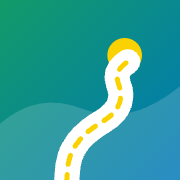
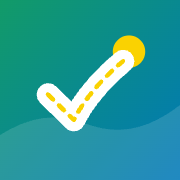
feat: replacing gira perimi with tsindaneza

Changed region(s): [[0.0, 0.1944, 1.0, 1.0]]

diff --git a/src/components/brand/logo.tsx b/src/components/brand/logo.tsx
@@ -2,10 +2,14 @@ import { useId } from "react";
 
 import { cn } from "@/lib/cn";
 
-/** Brand mark: a winding road over the hills, with the sun of the Rwandan flag. */
+const ROAD = "M10 25.5 18.6 34c3.2-6.4 8.8-13.3 16.4-19.6";
+
+/** Brand mark: a road that bends into a check mark ("tsinda", pass) and runs up to the sun of the Rwandan flag. */
 export function LogoMark({ className }: { className?: string }) {
   // Unique per instance: a duplicated id inside a hidden copy would blank the visible one's gradient.
-  const gradientId = `gp-logo-${useId()}`;
+  const id = useId();
+  const gradientId = `tn-logo-${id}`;
+  const clipId = `tn-clip-${id}`;
   return (
     <svg viewBox="0 0 48 48" className={cn("size-10", className)} aria-hidden="true">
       <defs>
@@ -13,24 +17,24 @@ export function LogoMark({ className }: { className?: string }) {
           <stop offset="0" stopColor="#129b68" />
           <stop offset="1" stopColor="#0077b8" />
         </linearGradient>
+        <clipPath id={clipId}>
+          <rect width="48" height="48" rx="13" />
+        </clipPath>
       </defs>
-      <rect width="48" height="48" rx="14" fill={`url(#${gradientId})`} />
-      <circle cx="35" cy="13" r="5.5" fill="#fad201" />
-      <path d="M0 33c7-6 14-7 22-4s16 2 26-6v25H0z" fill="#ffffff" opacity="0.16" />
+      <g clipPath={`url(#${clipId})`}>
+        <rect width="48" height="48" fill={`url(#${gradientId})`} />
+        <path d="M0 36c8-5 15-6 23-3s16 2 25-5v20H0z" fill="#ffffff" opacity="0.13" />
+      </g>
+      <circle cx="37" cy="11.2" r="5.4" fill="#fad201" />
+      <path d={ROAD} fill="none" stroke="#ffffff" strokeWidth="7.6" strokeLinecap="round" strokeLinejoin="round" />
       <path
-        d="M17 48c1-7 6-11 11-14s7-7 5-12c-1-3 0-5 3-7"
-        fill="none"
-        stroke="#ffffff"
-        strokeWidth="8"
-        strokeLinecap="round"
-      />
-      <path
-        d="M17 48c1-7 6-11 11-14s7-7 5-12c-1-3 0-5 3-7"
+        d={ROAD}
         fill="none"
         stroke="#fad201"
-        strokeWidth="1.6"
+        strokeWidth="1.5"
         strokeLinecap="round"
-        strokeDasharray="3 3.2"
+        strokeLinejoin="round"
+        strokeDasharray="2.4 2.7"
       />
     </svg>
   );
@@ -50,7 +54,7 @@ export function Logo({
       <LogoMark className="size-9 shrink-0 drop-shadow-sm" />
       {!compact && (
         <span className={cn("font-display text-xl font-extrabold leading-none tracking-tight", onDark ? "text-white" : "text-ink")}>
-          Gira<span className={onDark ? "text-brand-300" : "text-brand-600 dark:text-brand-400"}>Perimi</span>
+          Tsinda<span className={onDark ? "text-brand-300" : "text-brand-600 dark:text-brand-400"}>Neza</span>
         </span>
       )}
     </span>

diff --git a/src/app/(site)/page.tsx b/src/app/(site)/page.tsx
@@ -126,12 +126,12 @@ const MARQUEE_SIGNS = [
 
 const FAQ = [
   {
-    q: "Gira Perimi ni iki?",
+    q: "Tsinda Neza ni iki?",
     a: "Ni urubuga rugufasha kwiga amategeko y’umuhanda mu Kinyarwanda no kwitegura ikizamini cy’uruhushya rw’agateganyo rwo gutwara ibinyabiziga, ukoresheje amasomo, ibyapa, imyitozo n’ibizamini by’igerageza.",
   },
   {
     q: "Ese ibibazo ni ibyo mu kizamini nyakuri?",
-    a: "Ibibazo biri kuri Gira Perimi byavanywe mu gitabo cy’ibibazo by’ikizamini uko byakabaye, hamwe n’ibisubizo byabyo n’amashusho yabyo. Amasomo ashingiye ku Iteka rya Perezida rigenga uburyo bwo kugenda mu muhanda no ku Itegeko n° 014/2026.",
+    a: "Ibibazo biri kuri Tsinda Neza byavanywe mu gitabo cy’ibibazo by’ikizamini uko byakabaye, hamwe n’ibisubizo byabyo n’amashusho yabyo. Amasomo ashingiye ku Iteka rya Perezida rigenga uburyo bwo kugenda mu muhanda no ku Itegeko n° 014/2026.",
   },
   {
     q: "Ikizamini cy’igerageza giteye gite?",
@@ -227,7 +227,7 @@ export default function HomePage() {
             align="center"
             eyebrow="Uko bikora"
             title="Intambwe enye zikugeza kuri perimi"
-            description="Kuva ku isomo rya mbere kugeza ku munsi w’ikizamini, Gira Perimi iragukurikirana intambwe ku yindi."
+            description="Kuva ku isomo rya mbere kugeza ku munsi w’ikizamini, Tsinda Neza iragukurikirana intambwe ku yindi."
           />
         </Reveal>
         <ol className="relative mt-16 grid gap-6 md:grid-cols-2 lg:grid-cols-4">
@@ -282,7 +282,7 @@ export default function HomePage() {
         <Reveal>
           <SectionHeading
             align="center"
-            eyebrow="Impamvu Gira Perimi"
+            eyebrow="Impamvu Tsinda Neza"
             title="Byose ukeneye kugira ngo utsinde, ahantu hamwe"
           />
         </Reveal>
@@ -315,7 +315,7 @@ export default function HomePage() {
                 <p className="text-sm font-bold uppercase tracking-[0.14em] text-sun-300">Ikizamini cy’uruhushya rw’agateganyo</p>
                 <h2 className="mt-3 text-3xl font-extrabold leading-tight sm:text-5xl">Menya uko ikizamini giteye mbere y’umunsi nyirizina</h2>
                 <p className="mt-5 max-w-lg text-lg leading-relaxed text-white/75">
-                  Ibizamini by’igerageza bya Gira Perimi bikurikiza imiterere imwe n’iy’ikizamini gikoreshwa na Polisi
+                  Ibizamini by’igerageza bya Tsinda Neza bikurikiza imiterere imwe n’iy’ikizamini gikoreshwa na Polisi
                   y’u Rwanda, kugira ngo ku munsi w’ikizamini nta kintu kigutungura.
                 </p>
                 <ButtonLink href="/ikizamini" variant="sun" size="lg" className="mt-8">

diff --git a/src/components/layout/site-footer.tsx b/src/components/layout/site-footer.tsx
@@ -25,7 +25,7 @@ const COLUMNS = [
   {
     title: "Amakuru",
     links: [
-      { href: "/#uko-bikora", label: "Uko Gira Perimi ikora" },
+      { href: "/#uko-bikora", label: "Uko Tsinda Neza ikora" },
       { href: "/#ibibazo-bikunze-kubazwa", label: "Ibibazo bikunze kubazwa" },
       { href: "/amasomo/itegeko-rishya-2026", label: "Itegeko rishya rya 2026" },
     ],
@@ -63,9 +63,9 @@ export function SiteFooter() {
       </div>
       <div className="border-t border-line">
         <div className="container-page flex flex-col gap-3 py-6 text-sm text-muted md:flex-row md:items-center md:justify-between">
-          <p>© 2026 Gira Perimi. Uburenganzira bwose burasigasiwe.</p>
+          <p>© 2026 Tsinda Neza. Uburenganzira bwose burasigasiwe.</p>
           <p className="max-w-2xl md:text-right">
-            Gira Perimi si urubuga rwa Polisi y’u Rwanda. Ibibazo n’amasomo bishingiye ku gitabo cy’ibibazo
+            Tsinda Neza si urubuga rwa Polisi y’u Rwanda. Ibibazo n’amasomo bishingiye ku gitabo cy’ibibazo
             by’ikizamini, Iteka rya Perezida n° 85/01 n’Itegeko n° 014/2026 rigenga ikoreshwa ry’umuhanda.
           </p>
         </div>

diff --git a/src/app/layout.tsx b/src/app/layout.tsx
@@ -20,12 +20,12 @@ const DESCRIPTION =
 export const metadata: Metadata = {
   metadataBase: new URL(process.env.SITE_URL ?? "http://localhost:3000"),
   title: {
-    default: "Gira Perimi · Iga amategeko y’umuhanda, utsinde ikizamini",
-    template: "%s · Gira Perimi",
+    default: "Tsinda Neza · Iga amategeko y’umuhanda, utsinde ikizamini",
+    template: "%s · Tsinda Neza",
   },
   description: DESCRIPTION,
-  applicationName: "Gira Perimi",
-  appleWebApp: { capable: true, title: "Gira Perimi", statusBarStyle: "default" },
+  applicationName: "Tsinda Neza",
+  appleWebApp: { capable: true, title: "Tsinda Neza", statusBarStyle: "default" },
   keywords: [
     "amategeko y’umuhanda",
     "perimi",
@@ -38,8 +38,8 @@ export const metadata: Metadata = {
   openGraph: {
     type: "website",
     locale: "rw_RW",
-    siteName: "Gira Perimi",
-    title: "Gira Perimi · Iga amategeko y’umuhanda, utsinde ikizamini",
+    siteName: "Tsinda Neza",
+    title: "Tsinda Neza · Iga amategeko y’umuhanda, utsinde ikizamini",
     description: DESCRIPTION,
   },
 };

diff --git a/src/components/pwa/install-app-button.tsx b/src/components/pwa/install-app-button.tsx
@@ -15,7 +15,7 @@ export function InstallAppButton({ className }: { className?: string }) {
   if (state === "installed") {
     return (
       <span className="inline-flex items-center gap-1.5 text-sm font-semibold text-brand-700 dark:text-brand-300">
-        <BadgeCheck className="size-4" aria-hidden /> Gira Perimi iri kuri iki gikoresho
+        <BadgeCheck className="size-4" aria-hidden /> Tsinda Neza iri kuri iki gikoresho
       </span>
     );
   }
@@ -33,8 +33,8 @@ export function InstallAppButton({ className }: { className?: string }) {
       <Dialog
         open={iosHelp}
         onClose={() => setIosHelp(false)}
-        title="Shyira Gira Perimi kuri iPhone"
-        description="Mu ntambwe ebyiri, Gira Perimi iboneka kuri telefone yawe nk’izindi porogaramu."
+        title="Shyira Tsinda Neza kuri iPhone"
+        description="Mu ntambwe ebyiri, Tsinda Neza iboneka kuri telefone yawe nk’izindi porogaramu."
         size="sm"
       >
         <ol className="space-y-4">

diff --git a/src/components/quiz/demo-quiz.tsx b/src/components/quiz/demo-quiz.tsx
@@ -104,7 +104,7 @@ export function DemoQuiz() {
         <p className="mx-auto mt-4 max-w-md text-lg text-muted">
           {great
             ? "Ni byiza cyane! Iyandikishe ubike aho ugeze, maze ukore ikizamini cyuzuye cy’ibibazo 20."
-            : "Ntucike intege: ibi ni byo Gira Perimi igufasha kwiga. Iyandikishe utangire amasomo n’imyitozo."}
+            : "Ntucike intege: ibi ni byo Tsinda Neza igufasha kwiga. Iyandikishe utangire amasomo n’imyitozo."}
         </p>
         <div className="mt-8 flex flex-col justify-center gap-3 sm:flex-row">
           <ButtonLink href="/injira" size="lg">

diff --git a/src/app/admin/injira/page.tsx b/src/app/admin/injira/page.tsx
@@ -36,7 +36,7 @@ export default function AdminLoginPage() {
             <ShieldCheck className="size-4 text-brand-500" /> Ubuyobozi
           </p>
           <h1 className="mt-4 text-3xl font-extrabold">Injira nk’umuyobozi</h1>
-          <p className="mt-2 text-muted">Iki gice ni icy’abayobozi ba Gira Perimi gusa.</p>
+          <p className="mt-2 text-muted">Iki gice ni icy’abayobozi ba Tsinda Neza gusa.</p>
           <div className="mt-7">
             <Suspense fallback={<Skeleton className="h-60 rounded-2xl" />}>
               <LoginPanel />

diff --git a/src/components/layout/site-header.tsx b/src/components/layout/site-header.tsx
@@ -26,7 +26,7 @@ export function SiteHeader() {
   return (
     <header className="sticky top-0 z-50 border-b border-line/80 bg-surface/80 backdrop-blur-xl supports-[backdrop-filter]:bg-surface/70">
       <div className="container-page flex h-16 items-center justify-between gap-4">
-        <Link href="/" aria-label="Gira Perimi, ahabanza" className="rounded-xl">
+        <Link href="/" aria-label="Tsinda Neza, ahabanza" className="rounded-xl">
           <Logo />
         </Link>
         <Suspense fallback={<NavLinksView pathname="" />}>

diff --git a/src/app/manifest.ts b/src/app/manifest.ts
@@ -3,8 +3,8 @@ import type { MetadataRoute } from "next";
 export default function manifest(): MetadataRoute.Manifest {
   return {
     id: "/",
-    name: "Gira Perimi · Amategeko y’umuhanda",
-    short_name: "Gira Perimi",
+    name: "Tsinda Neza · Amategeko y’umuhanda",
+    short_name: "Tsinda Neza",
     description:
       "Iga amategeko y’umuhanda mu Kinyarwanda, witoze ibibazo by’ikizamini cy’uruhushya rw’agateganyo, n’igihe nta interineti ufite.",
     lang: "rw",

diff --git a/src/lib/pwa.ts b/src/lib/pwa.ts
@@ -1,4 +1,4 @@
-// Installing Gira Perimi as an app. Chrome/Android fire `beforeinstallprompt` (often before React hydrates), so an
+// Installing Tsinda Neza as an app. Chrome/Android fire `beforeinstallprompt` (often before React hydrates), so an
 // inline script keeps the event on window; iPhone/iPad have no prompt and need "Share → Add to Home Screen".
 
 type InstallPromptEvent = Event & { prompt: () => Promise<void>; userChoice: Promise<{ outcome: string }> };

diff --git a/public/sw.js b/public/sw.js
@@ -1,4 +1,4 @@
-// Gira Perimi service worker: makes the site installable and lets learners keep studying without a connection.
+// Tsinda Neza service worker: makes the site installable and lets learners keep studying without a connection.
 //
 //   /_next/static/*, /media/*  cache-first (file names are content-hashed; images never change in place)
 //   page navigations            network-first; the last copy of a page is served when offline

diff --git a/src/app/admin/(panel)/layout.tsx b/src/app/admin/(panel)/layout.tsx
@@ -10,7 +10,7 @@ import { Avatar } from "@/components/ui/avatar";
 import { getSessionAdmin } from "@/lib/api-server";
 
 export const metadata: Metadata = {
-  title: { default: "Ubuyobozi", template: "%s · Ubuyobozi · Gira Perimi" },
+  title: { default: "Ubuyobozi", template: "%s · Ubuyobozi · Tsinda Neza" },
   robots: { index: false, follow: false },
 };
 
